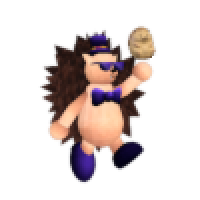
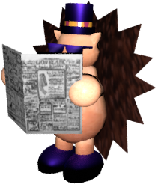
site renders update

diff --git a/br/index.html b/br/index.html
@@ -144,10 +144,7 @@
 				<br>✰ feito por mim e holly_ebony e música por Eribetra! ✰
 				</font></b><br><br>
 				
-				<iframe frameborder="0" src="https://itch.io/embed/4143738?border_width=0&amp;bg_color=3A1269&amp;fg_color=ffffff&amp;link_color=9f6ceb&amp;border_color=53396c" width="550" height="165"><a href="https://flines.itch.io/elementalcrossing">ELEMENTAL CROSSING por flines</a></iframe>
-				<br>
-				<br>
-				<a href='https://flines.itch.io/elementalcrossing'><img class="n64_game" alt="ELEMENTAL CROSSING" src='/assets/projects/ec.png' style="padding-bottom: 0px; margin-bottom: 0px;"/></a>
+				<a href='https://newgrounds.com/portal/view/1018409'><img class="n64_game" alt="ELEMENTAL CROSSING" src='/assets/projects/ec.png' style="padding-bottom: 0px; margin-bottom: 0px;"/></a>
 				
 				<hr class="solid" style="width: 62.5%; color: white; margin-top: 16px; margin-bottom: 32px; margin-top: 32px;">
 				
@@ -196,7 +193,7 @@
 						display: inline-block;
 					">
 							<div style="background-color: #679AC7; width: 100; padding: 4px;">
-								<a style="color: white; margin-left: 11px; background: url('/assets/socials/flines_small.png') no-repeat left center; padding-left: 24px; text-decoration: none; width: 100%;">Contate o Flines</a>
+								<a style="color: white; margin-left: 0px; background: url('/assets/socials/flines_small.png') no-repeat left center; padding-left: 52px; text-decoration: none; width: 100%;">Contate o Flines</a>
 							</div>
 							
 							<div style="float: left;">
@@ -207,19 +204,13 @@
 								<div style="margin-left: 16px; margin-top: 4px; margin-bottom: 4px;">
 									<a href="https://github.com/raflines" class="blue_btn" style="color: #121C96; background: url('/assets/socials/gh.png') no-repeat left center; padding-left: 24px; text-decoration: none; width: 100%;">Perfil do Github</a>
 								</div>
-							
-								<div style="margin-left: 16px; margin-top: 4px; margin-bottom: 9px;">
-									<a href="https://play.google.com/store/apps/dev?id=5938019730716496033" class="blue_btn" style="color: #121C96; background: url('/assets/socials/gp.png') no-repeat left center; padding-left: 24px; text-decoration: none; width: 100%;">Google Play</a>
-								</div>
 							</div>
 							
 							<div style="float: right;">
 								<div style="margin-right: 16px; margin-top: 9px; margin-bottom: 4px;">
 									<a href="https://youtube.com/flines" class="blue_btn" style="color: #121C96; background: url('/assets/socials/yt.png') no-repeat left center; padding-left: 24px; text-decoration: none; width: 100%;">Canal do YouTube</a>
 								</div>
-								<div style="margin-right: 16px; margin-top: 4px; margin-bottom: 4px;">
-									<a href="https://ko-fi.com/flines" class="blue_btn" style="color: #121C96; background: url('/assets/socials/kofi.png') no-repeat left center; padding-left: 24px; text-decoration: none; width: 100%;">Página no Ko-Fi</a>
-								</div>
+
 								<div style="margin-right: 16px; margin-top: 4px; margin-bottom: 9px;">
 									<a href="https://www.instagram.com/flinesfr/" class="blue_btn" style="color: #121C96; background: url('/assets/socials/ig.png') no-repeat left center; padding-left: 24px; text-decoration: none; width: 100%;">Perfil no Instagram</a>
 								</div>
@@ -350,7 +341,7 @@
 				right: 8%;
 				bottom: 5%;
 				
-				filter: drop-shadow(0 0 0.75rem #ffffff);
+				filter: drop-shadow(0 0 1rem #ffffff);
 			">
 				<div style="
 					background-color: #FFFFCB;
@@ -374,13 +365,13 @@
 						<button class="flizzy_button" onclick="flizzy_Disappear()" style="float: right; margin-right: 10px;"><a style="color: #000000; font-family: 'Pixelated MS Sans Serif'; font-size: 16px;">Não</a></button>
 					</div>
 
-					<svg width="20" height="30" style="position: absolute; left: 70%; top: 44%;">
+					<svg width="20" height="30" style="position: absolute; left: 70%; top: 46.5%;">
 						<polygon points="18,1 18,30 1, 1" style="fill:#FFFFCB; stroke-width:2; stroke: black;"/>
 						<rect width="300" height="5" style="fill:#FFFFCB;"/>
 					</svg>
 				</div>
 				
-				<img id="FlizzyTargetImage" src="/assets/flines_assistant/flines.png" style="width: 50%; height: 50%; margin-left: 70%;"/>
+				<img id="FlizzyTargetImage" src="/assets/flines_images/wave.gif" style="width: 50%; height: 50%; margin-left: 70%;"/>
 			</div>
 		
 		<!-- Javascript -->

diff --git a/index.html b/index.html
@@ -145,10 +145,7 @@
 				<br>✰ made by me and holly_ebony with music by Eribetra! ✰
 				</font></b><br><br>
 				
-				<iframe frameborder="0" src="https://itch.io/embed/4143738?border_width=0&amp;bg_color=3A1269&amp;fg_color=ffffff&amp;link_color=9f6ceb&amp;border_color=53396c" width="550" height="165"><a href="https://flines.itch.io/elementalcrossing">ELEMENTAL CROSSING by flines</a></iframe>
-				<br>
-				<br>
-				<a href='https://flines.itch.io/elementalcrossing'><img class="n64_game" alt="ELEMENTAL CROSSING" src='/assets/projects/ec.png' style="padding-bottom: 0px; margin-bottom: 0px;"/></a>
+				<a href='https://newgrounds.com/portal/view/1018409'><img class="n64_game" alt="ELEMENTAL CROSSING" src='/assets/projects/ec.png' style="padding-bottom: 0px; margin-bottom: 0px;"/></a>
 				
 				<hr class="solid" style="width: 62.5%; color: white; margin-top: 16px; margin-bottom: 32px; margin-top: 32px;">
 				
@@ -197,7 +194,7 @@
 						display: inline-block;
 					">
 							<div style="background-color: #679AC7; width: 100; padding: 4px;">
-								<a style="color: white; margin-left: 11px; background: url('/assets/socials/flines_small.png') no-repeat left center; padding-left: 24px; text-decoration: none; width: 100%;">Contacting Flines</a>
+								<a style="color: white; margin-left: 0px; background: url('/assets/socials/flines_small.png') no-repeat left center; padding-left: 52px; text-decoration: none; width: 100%;">Contacting Flines</a>
 							</div>
 							
 							<div style="float: left;">
@@ -208,19 +205,13 @@
 								<div style="margin-left: 16px; margin-top: 4px; margin-bottom: 4px;">
 									<a href="https://github.com/raflines" class="blue_btn" style="color: #121C96; background: url('/assets/socials/gh.png') no-repeat left center; padding-left: 24px; text-decoration: none; width: 100%;">Github Profile</a>
 								</div>
-							
-								<div style="margin-left: 16px; margin-top: 4px; margin-bottom: 9px;">
-									<a href="https://play.google.com/store/apps/dev?id=5938019730716496033" class="blue_btn" style="color: #121C96; background: url('/assets/socials/gp.png') no-repeat left center; padding-left: 24px; text-decoration: none; width: 100%;">Google Play Page</a>
-								</div>
 							</div>
 							
 							<div style="float: right;">
 								<div style="margin-right: 16px; margin-top: 9px; margin-bottom: 4px;">
 									<a href="https://youtube.com/flines" class="blue_btn" style="color: #121C96; background: url('/assets/socials/yt.png') no-repeat left center; padding-left: 24px; text-decoration: none; width: 100%;">YouTube Channel</a>
 								</div>
-								<div style="margin-right: 16px; margin-top: 4px; margin-bottom: 4px;">
-									<a href="https://ko-fi.com/flines" class="blue_btn" style="color: #121C96; background: url('/assets/socials/kofi.png') no-repeat left center; padding-left: 24px; text-decoration: none; width: 100%;">Ko-Fi Page</a>
-								</div>
+								
 								<div style="margin-right: 16px; margin-top: 4px; margin-bottom: 9px;">
 									<a href="https://www.instagram.com/flinesfr/" class="blue_btn" style="color: #121C96; background: url('/assets/socials/ig.png') no-repeat left center; padding-left: 24px; text-decoration: none; width: 100%;">Instagram Profile</a>
 								</div>
@@ -351,7 +342,7 @@
 				right: 8%;
 				bottom: 5%;
 				
-				filter: drop-shadow(0 0 0.75rem #ffffff);
+				filter: drop-shadow(0 0 1rem #ffffff);
 			">
 				<div style="
 					background-color: #FFFFCB;
@@ -375,13 +366,13 @@
 						<button class="flizzy_button" onclick="flizzy_Disappear()" style="float: right; margin-right: 10px;"><a style="color: #000000; font-family: 'Pixelated MS Sans Serif'; font-size: 16px;">No</a></button>
 					</div>
 
-					<svg width="20" height="30" style="position: absolute; left: 70%; top: 44%;">
+					<svg width="20" height="30" style="position: absolute; left: 70%; top: 46.5%;">
 						<polygon points="18,1 18,30 1, 1" style="fill:#FFFFCB; stroke-width:2; stroke: black;"/>
 						<rect width="300" height="5" style="fill:#FFFFCB;"/>
 					</svg>
 				</div>
 				
-				<img id="FlizzyTargetImage" src="/assets/flines_assistant/flines.png" style="width: 50%; height: 50%; margin-left: 70%;"/>
+				<img id="FlizzyTargetImage" src="/assets/flines_images/wave.gif" style="width: 50%; height: 50%; margin-left: 70%;"/>
 			</div>
 		
 		<!-- Javascript -->

diff --git a/blog/index.html b/blog/index.html
@@ -122,7 +122,7 @@
 						</td>
 						<tr height="6">
 						<td>
-							<img src="../assets/home_page/flines_spin.gif" width="40%" height="40%" align="right"/>
+							<img src="../blog/newspaper.png" width="40%" height="40%" align="right"/>
 							
 							<div style="
 								width: 54%;

diff --git a/scripts/style.css b/scripts/style.css
@@ -158,8 +158,8 @@
 	
 	.n64_game {
 		filter: drop-shadow(0 0 0.60rem #ffffff);
-		max-width: 25%;
-		width: 25%;
+		max-width: 30%;
+		width: 30%;
 		padding: 12px;
 		
 	}
